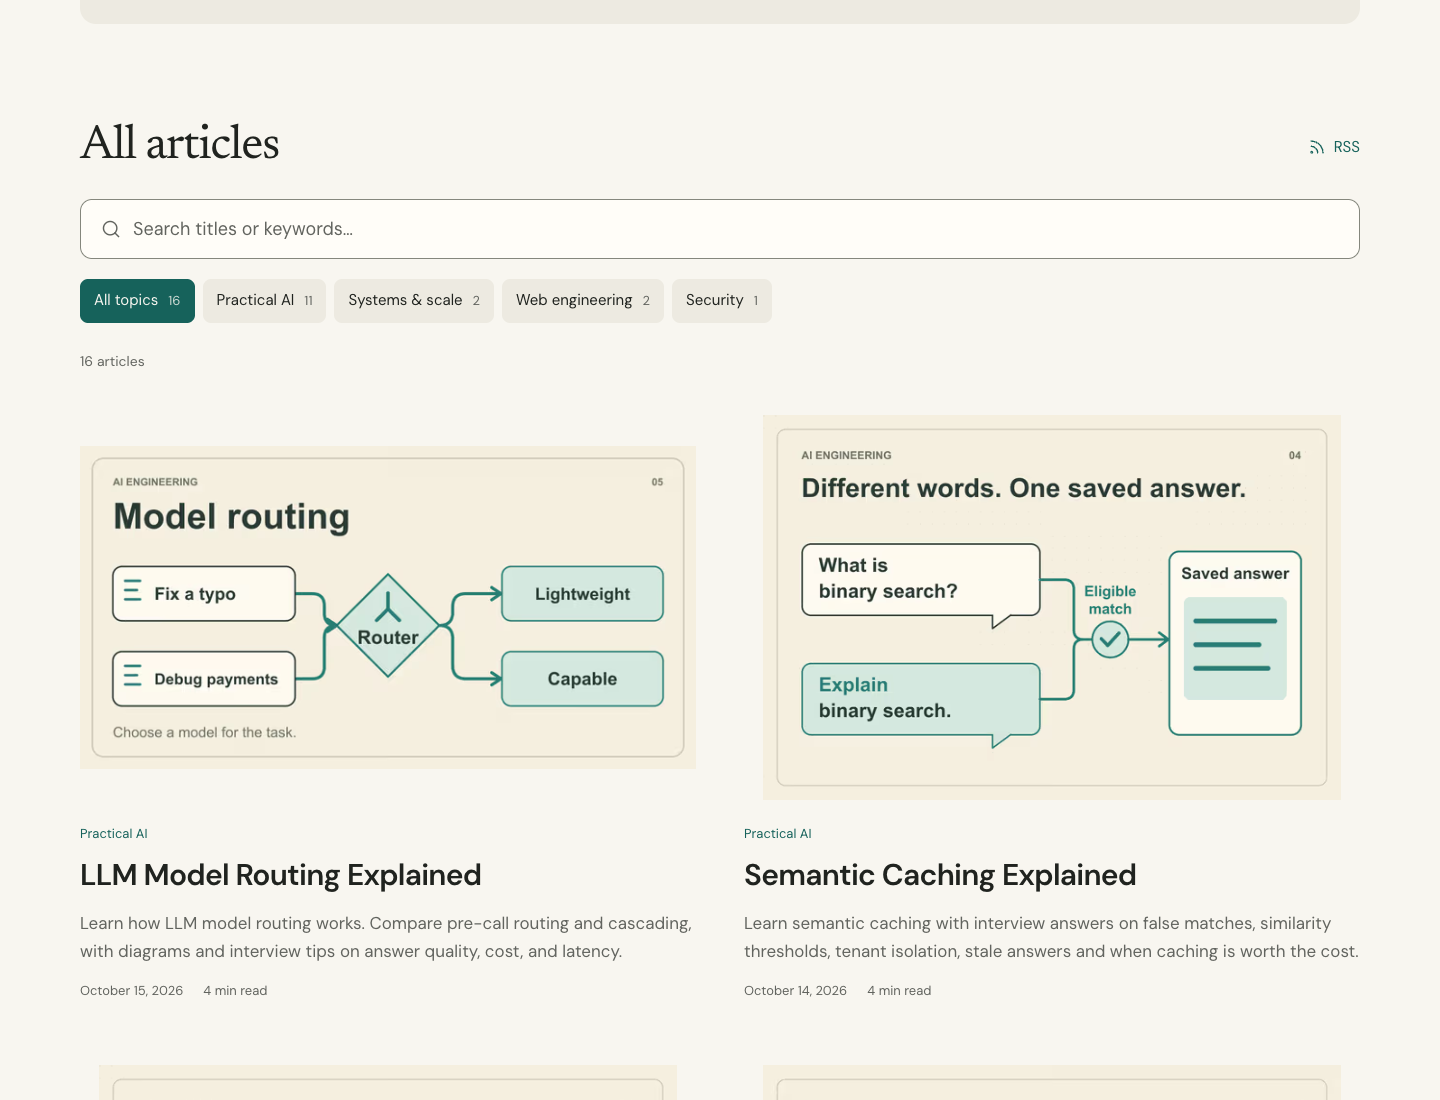
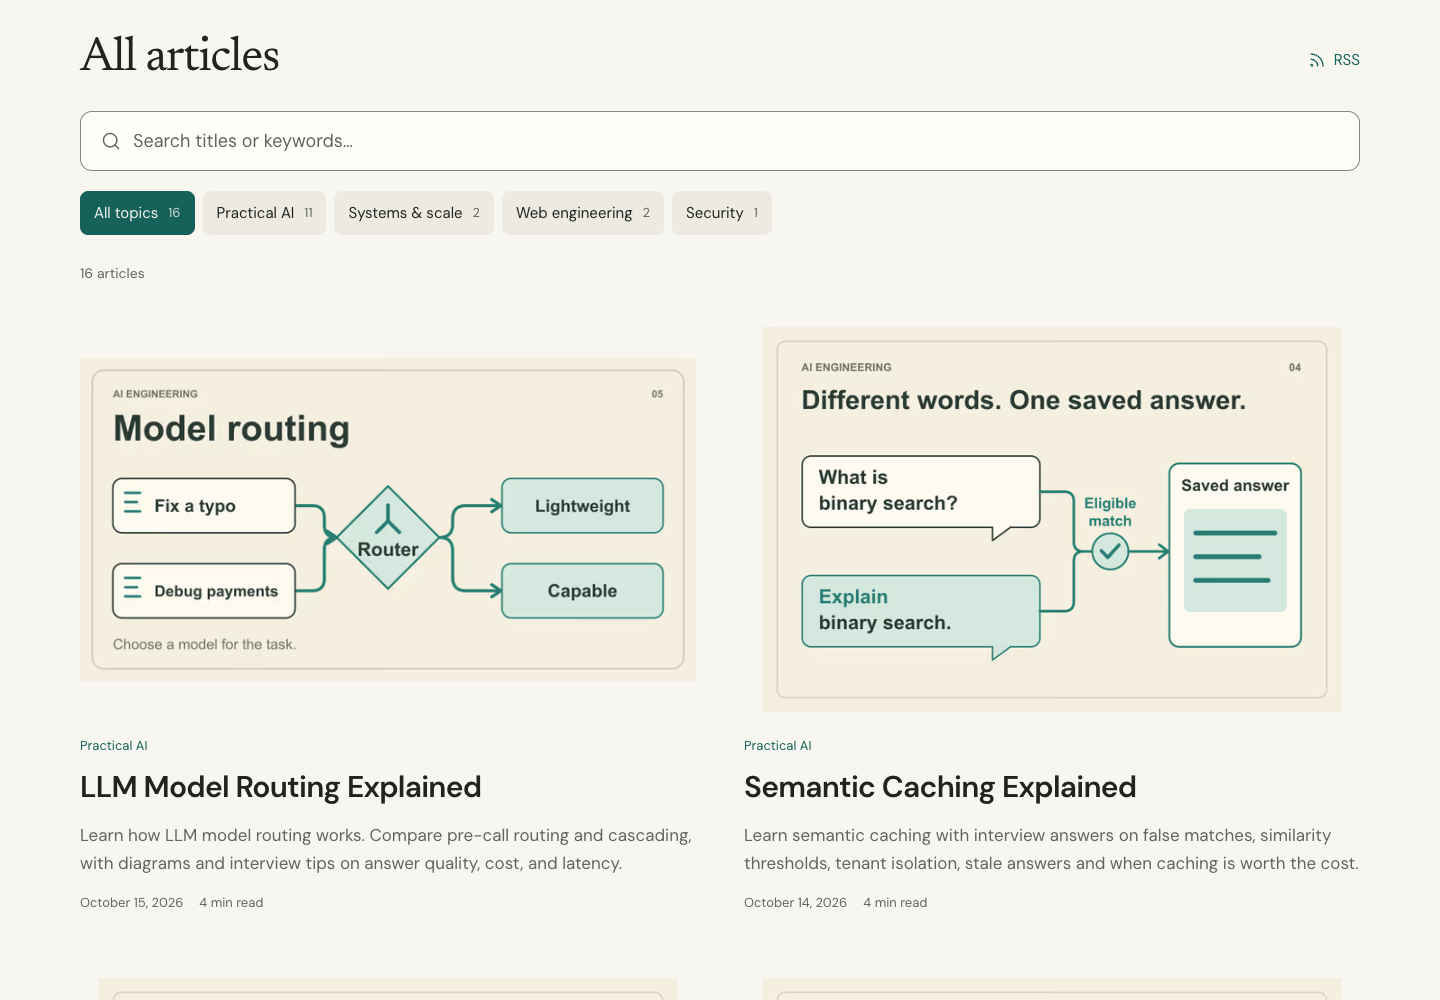
Refresh inner-page review screenshots

diff --git a/docs/inner-page-design/README.md b/docs/inner-page-design/README.md
@@ -12,7 +12,7 @@ The repository-local `frontend-design` and `web-design-guidelines` skills guided
 
 - One shared masthead, skip link, container system and footer replace the older sidebar shell. Homepage navigation keeps its section anchors; inner pages navigate to routes and identify the active page.
 - Blog: a simple Blog heading, visible Home / Blog breadcrumb, and five curated featured articles in an open, manually controlled row. Three previews appear on desktop, two on tablet and one with a glimpse of the next on phones. Covers and titles link directly to articles; excerpts, repeated calls to action and the tinted enclosure are removed. The archive retains full-width search, clear/reset actions and topic controls. Featured selection is maintained in `src/data/notebook.ts`; this is an editorial selection, not an analytics ranking.
-- Breadcrumbs: every public inner page has Home / Page navigation; articles add the Blog level. All indexable pages emit exactly one matching BreadcrumbList. The shared component uses the visible items for structured data; article trails derive from their existing SEO data, and Blog retains its linked CollectionPage. Long current titles truncate visually on narrow screens while retaining their full accessible text. The homepage and local Blog Studio have no breadcrumb, and breadcrumbs are hidden when printing. Missing-page states offer navigation without inventing indexed URLs. Existing title, description, canonical, Open Graph, Twitter and RSS metadata remain intact.
+- Breadcrumbs: every public inner page has Home / Page navigation; articles add the Blog level. All indexable inner pages emit exactly one matching BreadcrumbList. The shared component uses the visible items for structured data; article trails derive from their existing SEO data, and Blog retains its linked CollectionPage. Long current titles truncate visually on narrow screens while retaining their full accessible text. The homepage and local Blog Studio have no breadcrumb, and breadcrumbs are hidden when printing. Missing-page states offer navigation without inventing indexed URLs. Existing title, description, canonical, Open Graph, Twitter and RSS metadata remain intact.
 - Articles: serif title and cover/video composition, a reading column capped at 720px, desktop table of contents and expandable mobile navigation.
 - About, Projects, Contact and Résumé: matching type, spacing, image proportions and controls. Résumé printing uses a white canvas in either theme.
 - Privacy, Editorial policy and missing-page states use the same document typography. Blog Studio keeps a stacked preview header to fit its editing pane.
@@ -27,7 +27,7 @@ Article content and article metadata, profile and project data, API behavior and
 - Reviewed desktop and mobile layouts at 1440, 390 and 320px in light and dark themes; secondary pages also checked at 901px. No horizontal document overflow found in the reviewed routes.
 - Blog search, combined topic filtering, zero-results state and reset work. Article TOC expansion and anchor jumps, active section tracking, code copying, internally scrolling code, responsive tables and privacy-enhanced video controls work.
 - Featured articles use native horizontal scrolling and previous/next buttons, with endpoints instead of wrapping. The visible range is announced, offscreen stories are inert, and motion follows the reduced-motion preference. No autoplay is used. Search clear/reset returns focus to the input; long queries and narrow layouts remain contained.
-- Breadcrumb checks cover both themes at 320 and 1440px on the homepage, six static inner pages, Blog, two articles and both missing-page states. Exactly one trail appears on each inner page; none appears on Home. Production HTML checks cover all 24 public pages, including every article, for one matching schema, ordered positions and absolute URLs.
+- Breadcrumb checks cover both themes at 320 and 1440px on the homepage, six static inner pages, Blog, two articles and both missing-page states. Exactly one trail appears on each inner page; none appears on Home. Production HTML checks cover all 24 public pages, including every article: each inner page has one matching BreadcrumbList with ordered positions and absolute URLs, and Home has none.
 - Verified keyboard skip-to-main, active route navigation, theme persistence and the homepage project selector's arrow-key behavior. The homepage newsletter heading remains 32px and the hero retains its approved height.
 - Empty contact submission shows three field errors and focuses the name field. Form fields have visible keyboard focus. No contact message or newsletter subscription was sent.
 - Actual A4 résumé exports from light and dark themes contain three readable pages with white margins and no blank trailing page.
